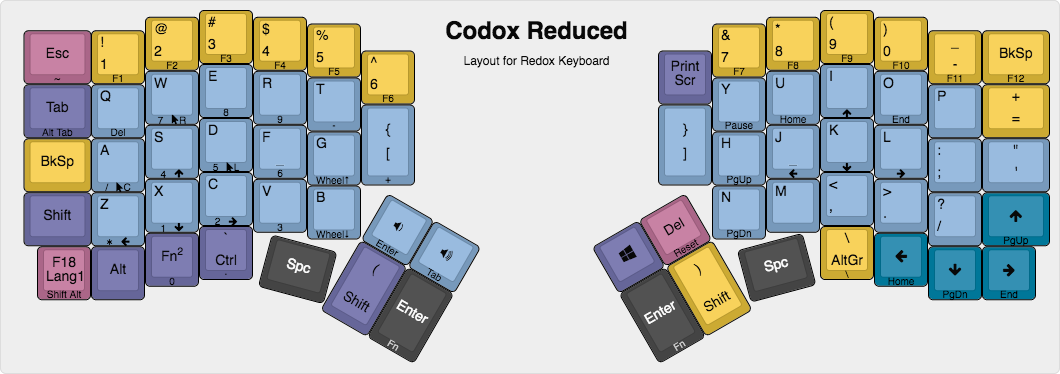
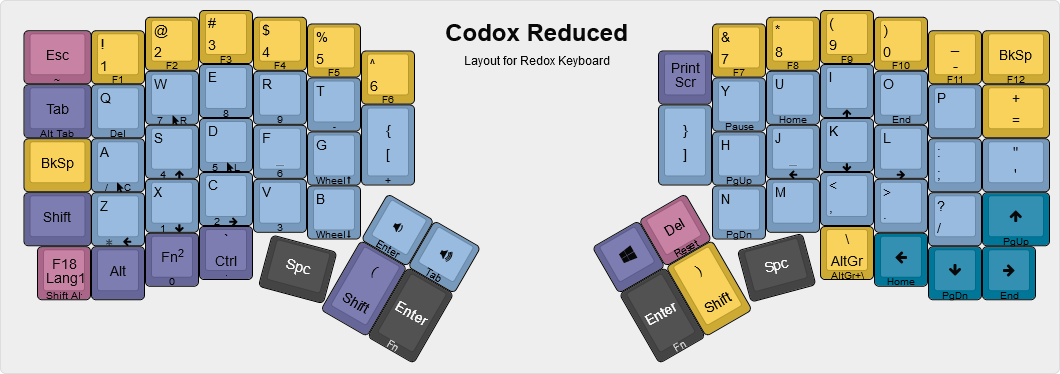
fixed: impossible to type AltGr+Backslash; fn+backslash now types it

diff --git a/Codox_Reduced/source_colemak/keymap.c b/Codox_Reduced/source_colemak/keymap.c
@@ -2,6 +2,6 @@
 
 const uint16_t PROGMEM keymaps[][MATRIX_ROWS][MATRIX_COLS] = {
 	[0] = LAYOUT(KC_GESC, KC_1, KC_2, KC_3, KC_4, KC_5, KC_7, KC_8, KC_9, KC_0, KC_MINS, KC_BSPC, KC_TAB, KC_Q, KC_W, KC_F, KC_P, KC_G, KC_6, KC_PSCR, KC_J, KC_L, KC_U, KC_Y, KC_SCLN, KC_EQL, KC_BSPC, KC_A, KC_R, KC_S, KC_T, KC_D, KC_LBRC, KC_RBRC, KC_H, KC_N, KC_E, KC_I, KC_O, KC_QUOT, KC_LSFT, KC_Z, KC_X, KC_C, KC_V, KC_B, KC_VOLD, KC_VOLU, KC_LGUI, KC_DEL, KC_K, KC_M, KC_COMM, KC_DOT, KC_SLSH, KC_UP, KC_F18, KC_LALT, MO(2), LCTL_T(KC_GRV), KC_SPC, KC_LSPO, LT(1,KC_ENT), LT(1,KC_ENT), KC_RSPC, KC_SPC, RALT_T(KC_BSLS), KC_LEFT, KC_DOWN, KC_RGHT),
-	[1] = LAYOUT(KC_GRV, KC_F1, KC_F2, KC_F3, KC_F4, KC_F5, KC_F7, KC_F8, KC_F9, KC_F10, KC_F11, KC_F12, LALT_T(KC_TAB), KC_DEL, KC_P7, KC_P8, KC_P9, KC_PMNS, KC_F6, KC_TRNS, KC_PAUS, KC_HOME, KC_UP, KC_END, KC_NO, KC_BSLS, KC_TRNS, KC_PSLS, KC_P4, KC_P5, KC_P6, KC_WH_U, KC_PPLS, KC_TRNS, KC_PGUP, KC_LEFT, KC_DOWN, KC_RGHT, KC_NO, KC_TRNS, KC_TRNS, KC_PAST, KC_P1, KC_P2, KC_P3, KC_WH_D, KC_PENT, KC_TAB, KC_TRNS, RESET, KC_PGDN, KC_NO, KC_TRNS, KC_TRNS, KC_TRNS, KC_PGUP, LSFT(KC_LALT), KC_TRNS, KC_P0, KC_PDOT, KC_TRNS, KC_TRNS, KC_TRNS, KC_TRNS, KC_TRNS, KC_TRNS, KC_BSLS, KC_HOME, KC_PGDN, KC_END),
+	[1] = LAYOUT(KC_GRV, KC_F1, KC_F2, KC_F3, KC_F4, KC_F5, KC_F7, KC_F8, KC_F9, KC_F10, KC_F11, KC_F12, LALT_T(KC_TAB), KC_DEL, KC_P7, KC_P8, KC_P9, KC_PMNS, KC_F6, KC_TRNS, KC_PAUS, KC_HOME, KC_UP, KC_END, KC_NO, KC_BSLS, KC_TRNS, KC_PSLS, KC_P4, KC_P5, KC_P6, KC_WH_U, KC_PPLS, KC_TRNS, KC_PGUP, KC_LEFT, KC_DOWN, KC_RGHT, KC_NO, KC_TRNS, KC_TRNS, KC_PAST, KC_P1, KC_P2, KC_P3, KC_WH_D, KC_PENT, KC_TAB, KC_TRNS, RESET, KC_PGDN, KC_NO, KC_TRNS, KC_TRNS, KC_TRNS, KC_PGUP, LSFT(KC_LALT), KC_TRNS, KC_P0, KC_PDOT, KC_TRNS, KC_TRNS, KC_TRNS, KC_TRNS, KC_TRNS, KC_TRNS, RALT(KC_BSLS), KC_HOME, KC_PGDN, KC_END),
 	[2] = LAYOUT(KC_NO, KC_NO, KC_NO, KC_NO, KC_NO, KC_NO, KC_NO, KC_NO, KC_NO, KC_NO, KC_NO, KC_NO, KC_NO, KC_NO, KC_BTN2, KC_NO, KC_NO, KC_NO, KC_NO, KC_NO, KC_NO, KC_NO, KC_NO, KC_NO, KC_NO, KC_NO, KC_NO, KC_BTN3, KC_UP, KC_BTN1, KC_WH_U, KC_NO, KC_NO, KC_NO, KC_NO, KC_NO, KC_NO, KC_NO, KC_NO, KC_NO, KC_LSFT, KC_LEFT, KC_DOWN, KC_RGHT, KC_WH_D, KC_NO, KC_NO, KC_NO, KC_NO, KC_NO, KC_NO, KC_NO, KC_NO, KC_NO, KC_NO, KC_NO, KC_TRNS, KC_NO, KC_NO, KC_NO, KC_NO, KC_LCTL, KC_LSFT, KC_NO, KC_NO, KC_NO, KC_NO, KC_NO, KC_NO, KC_NO)
 };

diff --git a/Codox_Reduced/source_qwerty/keymap.c b/Codox_Reduced/source_qwerty/keymap.c
@@ -2,6 +2,6 @@
 
 const uint16_t PROGMEM keymaps[][MATRIX_ROWS][MATRIX_COLS] = {
 	[0] = LAYOUT(KC_GESC, KC_1, KC_2, KC_3, KC_4, KC_5, KC_7, KC_8, KC_9, KC_0, KC_MINS, KC_BSPC, KC_TAB, KC_Q, KC_W, KC_E, KC_R, KC_T, KC_6, KC_PSCR, KC_Y, KC_U, KC_I, KC_O, KC_P, KC_EQL, KC_BSPC, KC_A, KC_S, KC_D, KC_F, KC_G, KC_LBRC, KC_RBRC, KC_H, KC_J, KC_K, KC_L, KC_SCLN, KC_QUOT, KC_LSFT, KC_Z, KC_X, KC_C, KC_V, KC_B, KC_VOLD, KC_VOLU, KC_LGUI, KC_DEL, KC_N, KC_M, KC_COMM, KC_DOT, KC_SLSH, KC_UP, KC_F18, KC_LALT, MO(2), LCTL_T(KC_GRV), KC_SPC, KC_LSPO, LT(1,KC_ENT), LT(1,KC_ENT), KC_RSPC, KC_SPC, RALT_T(KC_BSLS), KC_LEFT, KC_DOWN, KC_RGHT),
-	[1] = LAYOUT(KC_GRV, KC_F1, KC_F2, KC_F3, KC_F4, KC_F5, KC_F7, KC_F8, KC_F9, KC_F10, KC_F11, KC_F12, LALT_T(KC_TAB), KC_DEL, KC_P7, KC_P8, KC_P9, KC_PMNS, KC_F6, KC_TRNS, KC_PAUS, KC_HOME, KC_UP, KC_END, KC_NO, KC_BSLS, KC_TRNS, KC_PSLS, KC_P4, KC_P5, KC_P6, KC_WH_U, KC_PPLS, KC_TRNS, KC_PGUP, KC_LEFT, KC_DOWN, KC_RGHT, KC_NO, KC_TRNS, KC_TRNS, KC_PAST, KC_P1, KC_P2, KC_P3, KC_WH_D, KC_PENT, KC_TAB, KC_TRNS, RESET, KC_PGDN, KC_NO, KC_TRNS, KC_TRNS, KC_TRNS, KC_PGUP, LSFT(KC_LALT), KC_TRNS, KC_P0, KC_PDOT, KC_TRNS, KC_TRNS, KC_TRNS, KC_TRNS, KC_TRNS, KC_TRNS, KC_BSLS, KC_HOME, KC_PGDN, KC_END),
+	[1] = LAYOUT(KC_GRV, KC_F1, KC_F2, KC_F3, KC_F4, KC_F5, KC_F7, KC_F8, KC_F9, KC_F10, KC_F11, KC_F12, LALT_T(KC_TAB), KC_DEL, KC_P7, KC_P8, KC_P9, KC_PMNS, KC_F6, KC_TRNS, KC_PAUS, KC_HOME, KC_UP, KC_END, KC_NO, KC_BSLS, KC_TRNS, KC_PSLS, KC_P4, KC_P5, KC_P6, KC_WH_U, KC_PPLS, KC_TRNS, KC_PGUP, KC_LEFT, KC_DOWN, KC_RGHT, KC_NO, KC_TRNS, KC_TRNS, KC_PAST, KC_P1, KC_P2, KC_P3, KC_WH_D, KC_PENT, KC_TAB, KC_TRNS, RESET, KC_PGDN, KC_NO, KC_TRNS, KC_TRNS, KC_TRNS, KC_PGUP, LSFT(KC_LALT), KC_TRNS, KC_P0, KC_PDOT, KC_TRNS, KC_TRNS, KC_TRNS, KC_TRNS, KC_TRNS, KC_TRNS, RALT(KC_BSLS), KC_HOME, KC_PGDN, KC_END),
 	[2] = LAYOUT(KC_NO, KC_NO, KC_NO, KC_NO, KC_NO, KC_NO, KC_NO, KC_NO, KC_NO, KC_NO, KC_NO, KC_NO, KC_NO, KC_NO, KC_BTN2, KC_NO, KC_NO, KC_NO, KC_NO, KC_NO, KC_NO, KC_NO, KC_NO, KC_NO, KC_NO, KC_NO, KC_NO, KC_BTN3, KC_UP, KC_BTN1, KC_WH_U, KC_NO, KC_NO, KC_NO, KC_NO, KC_NO, KC_NO, KC_NO, KC_NO, KC_NO, KC_LSFT, KC_LEFT, KC_DOWN, KC_RGHT, KC_WH_D, KC_NO, KC_NO, KC_NO, KC_NO, KC_NO, KC_NO, KC_NO, KC_NO, KC_NO, KC_NO, KC_NO, KC_TRNS, KC_NO, KC_NO, KC_NO, KC_NO, KC_LCTL, KC_LSFT, KC_NO, KC_NO, KC_NO, KC_NO, KC_NO, KC_NO, KC_NO)
 };
